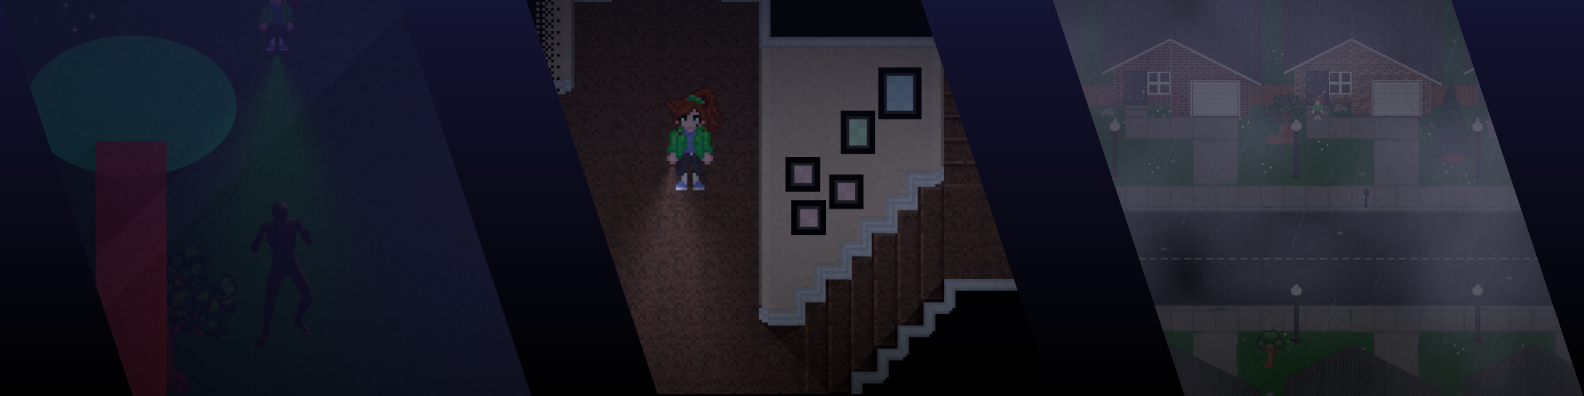
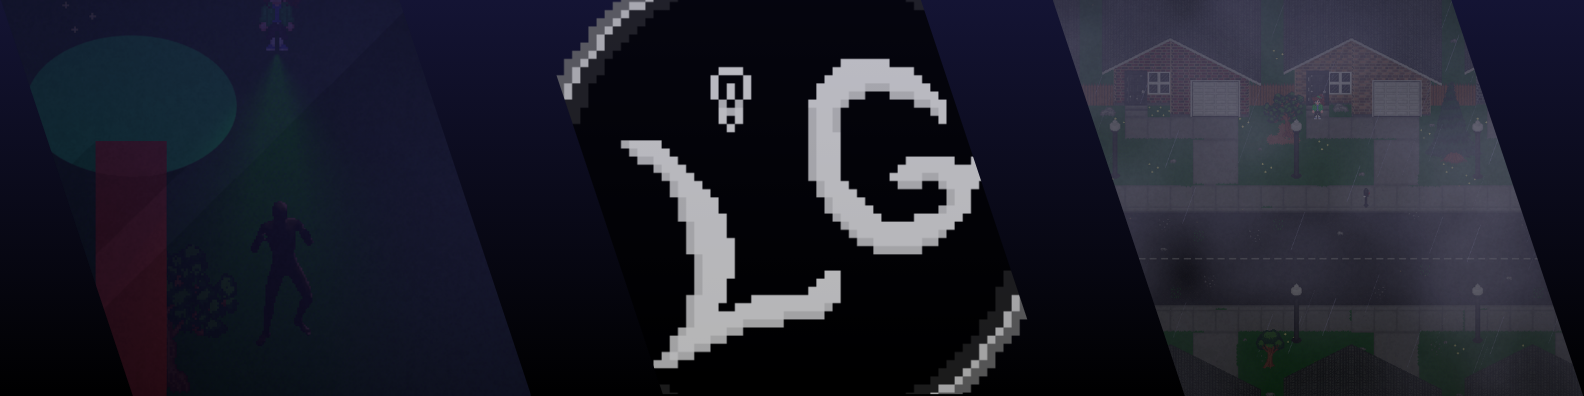
Began Tasko Layout

Changed region(s): [[0.3093, 0.0, 0.6496, 1.0], [0.5568, 0.0, 0.5878, 0.0303]]

diff --git a/index.html b/index.html
@@ -20,7 +20,7 @@
                     <a href="#" class="text-xl font-bold text-gray-900">Valeria Arenas</a>
                 </div>
                 <div class="hidden md:flex md:space-x-8">
-                    <a href="root/View/AboutMe.html" class="text-gray-700 hover:text-gray-900">About Me</a>
+                    <a href="./root/View/AboutMe.html" class="text-gray-700 hover:text-gray-900">About Me</a>
                     <a href="/root/View/Experience.html" class="text-gray-700 hover:text-gray-900">Projects</a>
                 </div>
                 <div class="md:hidden">
@@ -51,9 +51,9 @@
         <section id="projects" class="py-16 bg-white">
             <div class="container mx-auto text-center">
                 <h2 class="text-3xl font-semibold mb-4">Projects</h2>
-                <div class="grid grid-cols-1 md:grid-cols-2 lg:grid-cols-3 gap-6">
+                <div class="grid grid-cols-1 md:grid-cols-2 lg:grid-cols-3 gap-2">
                     <!-- Card 1 -->
-                    <a href="Tasko.html" class="relative block overflow-hidden rounded-lg shadow-lg">
+                    <a href="./root/View/Tasko.html" class="relative block overflow-hidden rounded-lg shadow-lg">
                         <img src="./root/Images/Logo.png" alt="Tasko" class="w-full h-full object-cover">
                         <div class="absolute inset-0 bg-black bg-opacity-50 flex items-center justify-center">
                             <h3 class="text-white text-xl font-bold">Tasko</h3>
@@ -66,7 +66,6 @@
                             <h3 class="text-white text-xl font-bold">LightGone</h3>
                         </div>
                     </a>
-                    <!-- Add more cards as needed -->
                 </div>
             </div>
     </section>
@@ -75,14 +74,14 @@
     <section id="contact" class="py-16">
         <div class="container mx-auto text-center">
             <h2 class="text-3xl font-semibold mb-4">Contact</h2>
-            <!-- Add your contact details or form here -->
+            
         </div>
     </section>
 
     <!-- Footer -->
     <footer class="bg-gray-800 text-white py-4">
         <div class="container mx-auto text-center">
-            <p>&copy; 2024 MyPortfolio. All rights reserved.</p>
+            <p>&copy; 2024 Valeria Arenas Portfolio. All rights reserved.</p>
         </div>
     </footer>
 

diff --git a/root/View/Tasko.html b/root/View/Tasko.html
@@ -6,3 +6,48 @@
     <script src="https://cdn.tailwindcss.com"></script>
     <title> Valeria Arenas Skills 2024</title>
 </head>
+
+<body class="bg-gray-100">
+<!-- Navbar -->
+<nav class="bg-white shadow fixed w-full z-10">
+    <div class="container mx-auto px-4">
+        <div class="flex items-center justify-between h-16">
+            <div class="flex-shrink-0">
+                <a href="/index.html" class="text-xl font-bold text-gray-900">Valeria Arenas</a>
+            </div>
+            <div class="hidden md:flex md:space-x-8">
+                <a href="./root/View/AboutMe.html" class="text-gray-700 hover:text-gray-900">About Me</a>
+                <a href="/root/View/Experience.html" class="text-gray-700 hover:text-gray-900">Projects</a>
+            </div>
+            <div class="md:hidden">
+                <button class="text-gray-700 hover:text-gray-900 focus:outline-none focus:text-gray-900"
+                    aria-label="Toggle navigation">
+                    <svg class="w-6 h-6" fill="none" stroke="currentColor" viewBox="0 0 24 24"
+                        xmlns="http://www.w3.org/2000/svg">
+                        <path stroke-linecap="round" stroke-linejoin="round" stroke-width="2"
+                            d="M4 6h16M4 12h16M4 18h16"></path>
+                    </svg>
+                </button>
+            </div>
+        </div>
+    </div>
+</nav>
+
+<section id="LightGone" class="relative h-96 lg:h-[36rem]">
+
+    <img src="../Images/TaskoBanner.png" alt="LightGone" class="absolute inset-0 w-full h-full object-cover">
+
+    <div class="absolute inset-0 bg-black bg-opacity-70 flex flex-col items-center justify-center space-y-4">
+        <h1 class="text-white text-6xl font-bold tracking-widest">Tasko</h1>
+        <h4 class="text-white text-3xl font-bold tracking-widest">Neumont Senior Capstone Project</h4>
+        <h4 class="text-white text-3xl font-bold tracking-widest">September - December 2023</h4>
+    </div>
+</section>
+
+
+    <footer class="bg-gray-800 text-white py-4">
+        <div class="container mx-auto text-center">
+            <p>&copy; 2024 Valeria Arenas Portfolio. All rights reserved.</p>
+        </div>
+    </footer>
+</body>

diff --git a/root/View/LightGone.html b/root/View/LightGone.html
@@ -40,7 +40,7 @@
 
         <img src="../Images/LightGone Banner.png" alt="LightGone" class="absolute inset-0 w-full h-full object-cover">
 
-        <div class="absolute inset-0 bg-black bg-opacity-20 flex flex-col items-center justify-center space-y-4">
+        <div class="absolute inset-0 bg-black bg-opacity-50 flex flex-col items-center justify-center space-y-4">
             <h1 class="text-white text-6xl font-bold tracking-widest">LightGone</h1>
             <h4 class="text-white text-3xl font-bold tracking-widest">Neumont Collaborative Project</h4>
             <h4 class="text-white text-3xl font-bold tracking-widest">January - March 2024</h4>
@@ -135,7 +135,11 @@
 
     <hr />
 
-
+    <footer class="bg-gray-800 text-white py-4">
+        <div class="container mx-auto text-center">
+            <p>&copy; 2024 Valeria Arenas Portfolio. All rights reserved.</p>
+        </div>
+    </footer>
 
 
 </body>
